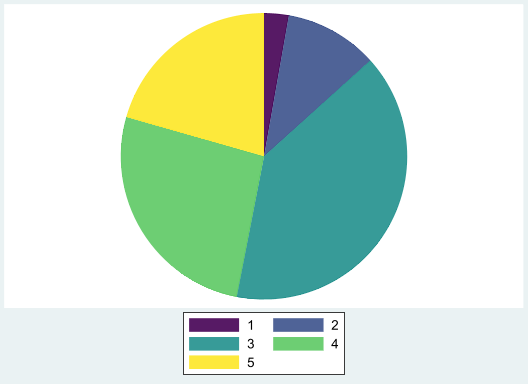
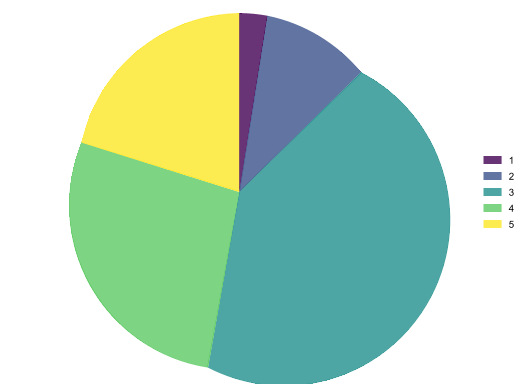
s
s

diff --git a/docs/stataviz/stataviz1.html b/docs/stataviz/stataviz1.html
@@ -109,6 +109,9 @@ function gtag(){dataLayer.push(arguments);}
 gtag('js', new Date());
 gtag('config', 'G-GNMLZDYJ2P', { 'anonymize_ip': true});
 </script>
+<script src="https://cdnjs.cloudflare.com/ajax/libs/require.js/2.3.6/require.min.js" integrity="sha512-c3Nl8+7g4LMSTdrm621y7kf9v3SDPnhxLNhcjFJbKECVnmZHTdo+IRO05sNLTH/D3vA6u1X32ehoLC7WFVdheg==" crossorigin="anonymous"></script>
+<script src="https://cdnjs.cloudflare.com/ajax/libs/jquery/3.5.1/jquery.min.js" integrity="sha512-bLT0Qm9VnAYZDflyKcBaQ2gg0hSYNQrJ8RilYldYQ1FxQYoCLtUjuuRuZo+fjqhx/qtq/1itJ0C2ejDxltZVFg==" crossorigin="anonymous"></script>
+<script type="application/javascript">define('jquery', [],function() {return window.jQuery;})</script>
 
 
 </head>
@@ -339,31 +342,39 @@ gtag('config', 'G-GNMLZDYJ2P', { 'anonymize_ip': true});
 <span id="cb1-5"><a href="#cb1-5" aria-hidden="true" tabindex="-1"></a>* And <span class="kw">of</span> course my <span class="kw">program</span></span>
 <span id="cb1-6"><a href="#cb1-6" aria-hidden="true" tabindex="-1"></a></span>
 <span id="cb1-7"><a href="#cb1-7" aria-hidden="true" tabindex="-1"></a><span class="kw">ssc</span> install color_style </span></code><button title="Copy to Clipboard" class="code-copy-button"><i class="bi"></i></button></pre></div>
+<div id="84a13c0b" class="cell" data-execution_count="1">
+<div class="cell-output cell-output-display">
+<style>div.jp-Notebook .datagrid-container {min-height: 448px; }</style>
+</div>
+<div class="cell-output cell-output-stdout">
+<pre><code>graph size was (5.5in, 4in), is now (default, default).</code></pre>
+</div>
+</div>
 <p>Lets start using default options for something simple. A pie Graph.</p>
-<div class="cell" data-execution_count="1">
+<div id="8f069c83" class="cell" data-execution_count="2">
 <details>
 <summary>Code</summary>
-<div class="sourceCode cell-code" id="cb2"><pre class="sourceCode stata code-with-copy"><code class="sourceCode stata"><span id="cb2-1"><a href="#cb2-1" aria-hidden="true" tabindex="-1"></a><span class="kw">set</span> <span class="dv">scheme</span> white2</span>
-<span id="cb2-2"><a href="#cb2-2" aria-hidden="true" tabindex="-1"></a><span class="kw">sysuse</span> auto, <span class="kw">clear</span></span>
-<span id="cb2-3"><a href="#cb2-3" aria-hidden="true" tabindex="-1"></a><span class="kw">set</span> <span class="dv">scheme</span> s2color</span>
-<span id="cb2-4"><a href="#cb2-4" aria-hidden="true" tabindex="-1"></a><span class="kw">graph</span> pie mpg, <span class="bn">over</span>(rep78)</span></code><button title="Copy to Clipboard" class="code-copy-button"><i class="bi"></i></button></pre></div>
+<div class="sourceCode cell-code" id="cb3"><pre class="sourceCode stata code-with-copy"><code class="sourceCode stata"><span id="cb3-1"><a href="#cb3-1" aria-hidden="true" tabindex="-1"></a><span class="kw">sysuse</span> auto, <span class="kw">clear</span></span>
+<span id="cb3-2"><a href="#cb3-2" aria-hidden="true" tabindex="-1"></a><span class="kw">set</span> <span class="dv">scheme</span> s2color</span>
+<span id="cb3-3"><a href="#cb3-3" aria-hidden="true" tabindex="-1"></a><span class="kw">graph</span> pie mpg, <span class="bn">over</span>(rep78)</span></code><button title="Copy to Clipboard" class="code-copy-button"><i class="bi"></i></button></pre></div>
 </details>
 <div class="cell-output cell-output-stdout">
 <pre><code>(1978 automobile data)</code></pre>
 </div>
 <div class="cell-output cell-output-display">
-<p><img src="stataviz1_files/figure-html/cell-2-output-2.png" class="img-fluid"></p>
+<p><img src="stataviz1_files/figure-html/cell-3-output-2.png" class="img-fluid"></p>
 </div>
 </div>
 <p>This creates a pie graph with average MPG’s by number of repairs in 1978. But what I didn’t like default colors, you can request a change:</p>
-<div class="cell" data-execution_count="2">
+<div id="e67c4f2d" class="cell" data-execution_count="3">
 <details>
 <summary>Code</summary>
-<div class="sourceCode cell-code" id="cb4"><pre class="sourceCode stata code-with-copy"><code class="sourceCode stata"><span id="cb4-1"><a href="#cb4-1" aria-hidden="true" tabindex="-1"></a>color_style viridis, n(5)</span>
-<span id="cb4-2"><a href="#cb4-2" aria-hidden="true" tabindex="-1"></a><span class="kw">graph</span> pie mpg, <span class="bn">over</span>(rep78)</span></code><button title="Copy to Clipboard" class="code-copy-button"><i class="bi"></i></button></pre></div>
+<div class="sourceCode cell-code" id="cb5"><pre class="sourceCode stata code-with-copy"><code class="sourceCode stata"><span id="cb5-1"><a href="#cb5-1" aria-hidden="true" tabindex="-1"></a><span class="kw">set</span> <span class="dv">scheme</span> white2</span>
+<span id="cb5-2"><a href="#cb5-2" aria-hidden="true" tabindex="-1"></a>color_style viridis, n(5)</span>
+<span id="cb5-3"><a href="#cb5-3" aria-hidden="true" tabindex="-1"></a><span class="kw">graph</span> pie mpg, <span class="bn">over</span>(rep78)</span></code><button title="Copy to Clipboard" class="code-copy-button"><i class="bi"></i></button></pre></div>
 </details>
 <div class="cell-output cell-output-display">
-<p><img src="stataviz1_files/figure-html/cell-3-output-1.png" class="img-fluid"></p>
+<p><img src="stataviz1_files/figure-html/cell-4-output-1.png" class="img-fluid"></p>
 </div>
 </div>
 <p>Here, I’ll be using Viridis palette, but requesting only 5 colors. One can request up to 15 different colors.</p>
@@ -373,35 +384,35 @@ gtag('config', 'G-GNMLZDYJ2P', { 'anonymize_ip': true});
 <p>But every body uses Viridis, what other palette can I use?</p>
 <p>You can look into the helpfile of <code>colorpalette</code> for a large set of colors. But, <code>color_style</code> also comes with its own set!. Just type: <code>color_style, list</code>, and a list of additional palettes will come up.</p>
 <p>But you want to see examples! Below, you can see three examples, first using <code>egypt</code> color palette, second using <code>tableau</code>, and third using your own colors</p>
-<div class="cell" data-execution_count="3">
+<div id="44e7f81f" class="cell" data-execution_count="4">
 <details>
 <summary>Code</summary>
-<div class="sourceCode cell-code" id="cb5"><pre class="sourceCode stata code-with-copy"><code class="sourceCode stata"><span id="cb5-1"><a href="#cb5-1" aria-hidden="true" tabindex="-1"></a>color_style egypt,</span>
-<span id="cb5-2"><a href="#cb5-2" aria-hidden="true" tabindex="-1"></a><span class="kw">graph</span> pie mpg, <span class="bn">over</span>(rep78) <span class="bn">name</span>(m1, <span class="kw">replace</span>)</span>
-<span id="cb5-3"><a href="#cb5-3" aria-hidden="true" tabindex="-1"></a></span>
-<span id="cb5-4"><a href="#cb5-4" aria-hidden="true" tabindex="-1"></a>**</span>
-<span id="cb5-5"><a href="#cb5-5" aria-hidden="true" tabindex="-1"></a>color_style tableau</span>
-<span id="cb5-6"><a href="#cb5-6" aria-hidden="true" tabindex="-1"></a><span class="kw">graph</span> pie mpg, <span class="bn">over</span>(rep78) <span class="bn">name</span>(m2, <span class="kw">replace</span>)</span>
-<span id="cb5-7"><a href="#cb5-7" aria-hidden="true" tabindex="-1"></a></span>
-<span id="cb5-8"><a href="#cb5-8" aria-hidden="true" tabindex="-1"></a>** <span class="kw">or</span> your own</span>
-<span id="cb5-9"><a href="#cb5-9" aria-hidden="true" tabindex="-1"></a>color_style #01161E #124559 #598392 #AEC3B0 #EFF6E0</span>
-<span id="cb5-10"><a href="#cb5-10" aria-hidden="true" tabindex="-1"></a><span class="kw">graph</span> pie mpg, <span class="bn">over</span>(rep78) <span class="bn">name</span>(m3, <span class="kw">replace</span>)</span></code><button title="Copy to Clipboard" class="code-copy-button"><i class="bi"></i></button></pre></div>
+<div class="sourceCode cell-code" id="cb6"><pre class="sourceCode stata code-with-copy"><code class="sourceCode stata"><span id="cb6-1"><a href="#cb6-1" aria-hidden="true" tabindex="-1"></a>color_style egypt,</span>
+<span id="cb6-2"><a href="#cb6-2" aria-hidden="true" tabindex="-1"></a><span class="kw">graph</span> pie mpg, <span class="bn">over</span>(rep78) <span class="bn">name</span>(m1, <span class="kw">replace</span>)</span>
+<span id="cb6-3"><a href="#cb6-3" aria-hidden="true" tabindex="-1"></a></span>
+<span id="cb6-4"><a href="#cb6-4" aria-hidden="true" tabindex="-1"></a>**</span>
+<span id="cb6-5"><a href="#cb6-5" aria-hidden="true" tabindex="-1"></a>color_style tableau</span>
+<span id="cb6-6"><a href="#cb6-6" aria-hidden="true" tabindex="-1"></a><span class="kw">graph</span> pie mpg, <span class="bn">over</span>(rep78) <span class="bn">name</span>(m2, <span class="kw">replace</span>)</span>
+<span id="cb6-7"><a href="#cb6-7" aria-hidden="true" tabindex="-1"></a></span>
+<span id="cb6-8"><a href="#cb6-8" aria-hidden="true" tabindex="-1"></a>** <span class="kw">or</span> your own</span>
+<span id="cb6-9"><a href="#cb6-9" aria-hidden="true" tabindex="-1"></a>color_style #01161E #124559 #598392 #AEC3B0 #EFF6E0</span>
+<span id="cb6-10"><a href="#cb6-10" aria-hidden="true" tabindex="-1"></a><span class="kw">graph</span> pie mpg, <span class="bn">over</span>(rep78) <span class="bn">name</span>(m3, <span class="kw">replace</span>)</span></code><button title="Copy to Clipboard" class="code-copy-button"><i class="bi"></i></button></pre></div>
 </details>
 <div class="cell-output cell-output-display">
-<p><img src="stataviz1_files/figure-html/cell-4-output-1.png" class="img-fluid"></p>
+<p><img src="stataviz1_files/figure-html/cell-5-output-1.png" class="img-fluid"></p>
 </div>
 <div class="cell-output cell-output-display">
-<p><img src="stataviz1_files/figure-html/cell-4-output-2.png" class="img-fluid"></p>
+<p><img src="stataviz1_files/figure-html/cell-5-output-2.png" class="img-fluid"></p>
 </div>
 <div class="cell-output cell-output-display">
-<p><img src="stataviz1_files/figure-html/cell-4-output-3.png" class="img-fluid"></p>
+<p><img src="stataviz1_files/figure-html/cell-5-output-3.png" class="img-fluid"></p>
 </div>
 </div>
 </section>
 <section id="how-does-it-work" class="level2">
 <h2 class="anchored" data-anchor-id="how-does-it-work">How does it work?</h2>
 <p>Now that you know the magic, it is fair to know the trick.</p>
-<p>This command <code>color_style</code> works as a wrapper behind <code>colorpalette'. It basically passes the information to this program to translate and create colors from either palettes, or directly provided colors, so it translates into RGB color code that</code>Stata` understands.</p>
+<p>This command <code>color_style</code> works as a wrapper behind <code>colorpalette</code>. It basically passes the information to this program to translate and create colors from either palettes, or directly provided colors, so it translates into RGB color code that <code>Stata</code> understands.</p>
 <p>After that, <code>grstyle</code> uses this information to change the colors of all graphic related styles (p1-p15), which is why there is a limitation of how many colors one can define using this method.</p>
 <p>In any case, once you decide you like certain scheme, this small program should help to make it easy change colors, based on your needs.</p>
 
@@ -792,116 +803,123 @@ window.document.addEventListener("DOMContentLoaded", function (event) {
       </a>
   </div>
 </nav><div class="modal fade" id="quarto-embedded-source-code-modal" tabindex="-1" aria-labelledby="quarto-embedded-source-code-modal-label" aria-hidden="true"><div class="modal-dialog modal-dialog-scrollable"><div class="modal-content"><div class="modal-header"><h5 class="modal-title" id="quarto-embedded-source-code-modal-label">Source Code</h5><button class="btn-close" data-bs-dismiss="modal"></button></div><div class="modal-body"><div class="">
-<div class="sourceCode" id="cb6" data-shortcodes="false"><pre class="sourceCode markdown code-with-copy"><code class="sourceCode markdown"><span id="cb6-1"><a href="#cb6-1" aria-hidden="true" tabindex="-1"></a><span class="co">---</span></span>
-<span id="cb6-2"><a href="#cb6-2" aria-hidden="true" tabindex="-1"></a><span class="an">title:</span><span class="co"> "How to add Colors to your Life: `color_style`"</span></span>
-<span id="cb6-3"><a href="#cb6-3" aria-hidden="true" tabindex="-1"></a><span class="an">subtitle:</span><span class="co"> "The `ado` way"</span></span>
-<span id="cb6-4"><a href="#cb6-4" aria-hidden="true" tabindex="-1"></a><span class="an">format:</span><span class="co"> html</span></span>
-<span id="cb6-5"><a href="#cb6-5" aria-hidden="true" tabindex="-1"></a><span class="co">---</span></span>
-<span id="cb6-6"><a href="#cb6-6" aria-hidden="true" tabindex="-1"></a></span>
-<span id="cb6-7"><a href="#cb6-7" aria-hidden="true" tabindex="-1"></a><span class="al">![This is the way](https://i.pinimg.com/originals/98/c6/99/98c6997145f363265959daf84b656057.jpg)</span>{width=80%}</span>
-<span id="cb6-8"><a href="#cb6-8" aria-hidden="true" tabindex="-1"></a></span>
-<span id="cb6-9"><a href="#cb6-9" aria-hidden="true" tabindex="-1"></a>I should start by saying that what I will be presenting here is ***not*** the only way. There are other ways to create and modify your schemes however you would like to do. Most people provide you with the full set of schemes for that purpose. </span>
-<span id="cb6-10"><a href="#cb6-10" aria-hidden="true" tabindex="-1"></a></span>
-<span id="cb6-11"><a href="#cb6-11" aria-hidden="true" tabindex="-1"></a>That being said, the command I'll be presenting depends on a few tools built by Ben Jann: <span class="in">`colorpalette`</span>, <span class="in">`colorspace`</span>, as well as <span class="in">`grstyle`</span>.</span>
-<span id="cb6-12"><a href="#cb6-12" aria-hidden="true" tabindex="-1"></a></span>
-<span id="cb6-13"><a href="#cb6-13" aria-hidden="true" tabindex="-1"></a>It also has only 1 purpose. Change the color settings from your current "scheme" to any other palette either available in <span class="in">`colorpalette`</span>, or provided by the program.</span>
-<span id="cb6-14"><a href="#cb6-14" aria-hidden="true" tabindex="-1"></a></span>
-<span id="cb6-15"><a href="#cb6-15" aria-hidden="true" tabindex="-1"></a>So let me start</span>
-<span id="cb6-16"><a href="#cb6-16" aria-hidden="true" tabindex="-1"></a> </span>
-<span id="cb6-17"><a href="#cb6-17" aria-hidden="true" tabindex="-1"></a><span class="fu"># Why do we care about colors?</span></span>
-<span id="cb6-18"><a href="#cb6-18" aria-hidden="true" tabindex="-1"></a></span>
-<span id="cb6-19"><a href="#cb6-19" aria-hidden="true" tabindex="-1"></a>Why not? </span>
-<span id="cb6-20"><a href="#cb6-20" aria-hidden="true" tabindex="-1"></a></span>
-<span id="cb6-21"><a href="#cb6-21" aria-hidden="true" tabindex="-1"></a>Even though I suspect you are an economist, who does research, you may also be curious or may have some inclination for data visualization, which means you like to put some colors in your graphs.</span>
-<span id="cb6-22"><a href="#cb6-22" aria-hidden="true" tabindex="-1"></a></span>
-<span id="cb6-23"><a href="#cb6-23" aria-hidden="true" tabindex="-1"></a>**`Stata`**, as many other software, can handle colors pretty well, but its not very natural at it. Why? because it is an statistical/econometric software, and does not specialize much on design and colors. </span>
-<span id="cb6-24"><a href="#cb6-24" aria-hidden="true" tabindex="-1"></a></span>
-<span id="cb6-25"><a href="#cb6-25" aria-hidden="true" tabindex="-1"></a>In fact, a running comment, or complain, is why is it that they have such an *ugly* choice of colors for the default setting? And why are the graphics capabilities so limited/complex!</span>
-<span id="cb6-26"><a href="#cb6-26" aria-hidden="true" tabindex="-1"></a></span>
-<span id="cb6-27"><a href="#cb6-27" aria-hidden="true" tabindex="-1"></a>Luckily, many users have created tools to add color to your figures much easier. And that is the purpose of this new command. Add colors to your figures!</span>
-<span id="cb6-28"><a href="#cb6-28" aria-hidden="true" tabindex="-1"></a></span>
-<span id="cb6-29"><a href="#cb6-29" aria-hidden="true" tabindex="-1"></a><span class="fu">## So how does it work?</span></span>
-<span id="cb6-30"><a href="#cb6-30" aria-hidden="true" tabindex="-1"></a></span>
-<span id="cb6-31"><a href="#cb6-31" aria-hidden="true" tabindex="-1"></a>As I mentioned earlier, there are two very useful programs that mine builds on. These are <span class="in">`colorpalette`</span> and <span class="in">`grstyle`</span>, both by Ben Jann.</span>
-<span id="cb6-32"><a href="#cb6-32" aria-hidden="true" tabindex="-1"></a></span>
-<span id="cb6-33"><a href="#cb6-33" aria-hidden="true" tabindex="-1"></a><span class="ss">- </span><span class="in">`colorpalette`</span> helps create colors, call on palettes, modify properties, and translate them in a way that <span class="in">`Stata`</span> will understand. </span>
-<span id="cb6-34"><a href="#cb6-34" aria-hidden="true" tabindex="-1"></a></span>
-<span id="cb6-35"><a href="#cb6-35" aria-hidden="true" tabindex="-1"></a><span class="ss">- </span><span class="in">`grstyle`</span> helps modifying the current scheme, so all graphs done afterward will use the modify schemes.</span>
-<span id="cb6-36"><a href="#cb6-36" aria-hidden="true" tabindex="-1"></a></span>
-<span id="cb6-37"><a href="#cb6-37" aria-hidden="true" tabindex="-1"></a><span class="fu">## Where does mine fit? </span></span>
-<span id="cb6-38"><a href="#cb6-38" aria-hidden="true" tabindex="-1"></a></span>
-<span id="cb6-39"><a href="#cb6-39" aria-hidden="true" tabindex="-1"></a>My program <span class="in">`color_style`</span> is in fact a wrapper around <span class="in">`colorpalette`</span> and <span class="in">`grstyle`</span>. You can use it to call on a particular color palette, and will automatically apply it into your scheme. </span>
-<span id="cb6-40"><a href="#cb6-40" aria-hidden="true" tabindex="-1"></a></span>
-<span id="cb6-41"><a href="#cb6-41" aria-hidden="true" tabindex="-1"></a>It also brings some other colorpalettes that can be stored in memory, and applied to your graphs, but enough talk, lets see how it works!</span>
-<span id="cb6-42"><a href="#cb6-42" aria-hidden="true" tabindex="-1"></a></span>
-<span id="cb6-43"><a href="#cb6-43" aria-hidden="true" tabindex="-1"></a>First, setup. make sure you have the following programs installed in your computer</span>
-<span id="cb6-44"><a href="#cb6-44" aria-hidden="true" tabindex="-1"></a></span>
-<span id="cb6-45"><a href="#cb6-45" aria-hidden="true" tabindex="-1"></a><span class="in">```stata</span></span>
-<span id="cb6-46"><a href="#cb6-46" aria-hidden="true" tabindex="-1"></a><span class="in">ssc install palettes</span></span>
-<span id="cb6-47"><a href="#cb6-47" aria-hidden="true" tabindex="-1"></a><span class="in">ssc install colrspace  </span></span>
-<span id="cb6-48"><a href="#cb6-48" aria-hidden="true" tabindex="-1"></a><span class="in">ssc install grstyle</span></span>
-<span id="cb6-49"><a href="#cb6-49" aria-hidden="true" tabindex="-1"></a></span>
-<span id="cb6-50"><a href="#cb6-50" aria-hidden="true" tabindex="-1"></a><span class="in">* And of course my program</span></span>
-<span id="cb6-51"><a href="#cb6-51" aria-hidden="true" tabindex="-1"></a></span>
-<span id="cb6-52"><a href="#cb6-52" aria-hidden="true" tabindex="-1"></a><span class="in">ssc install color_style </span></span>
-<span id="cb6-53"><a href="#cb6-53" aria-hidden="true" tabindex="-1"></a><span class="in">```</span></span>
-<span id="cb6-54"><a href="#cb6-54" aria-hidden="true" tabindex="-1"></a></span>
-<span id="cb6-55"><a href="#cb6-55" aria-hidden="true" tabindex="-1"></a>Lets start using default options for something simple. A pie Graph. </span>
-<span id="cb6-56"><a href="#cb6-56" aria-hidden="true" tabindex="-1"></a></span>
-<span id="cb6-59"><a href="#cb6-59" aria-hidden="true" tabindex="-1"></a><span class="in">```{stata}</span></span>
-<span id="cb6-60"><a href="#cb6-60" aria-hidden="true" tabindex="-1"></a><span class="in">set scheme white2</span></span>
-<span id="cb6-61"><a href="#cb6-61" aria-hidden="true" tabindex="-1"></a><span class="in">sysuse auto, clear</span></span>
-<span id="cb6-62"><a href="#cb6-62" aria-hidden="true" tabindex="-1"></a><span class="in">set scheme s2color</span></span>
-<span id="cb6-63"><a href="#cb6-63" aria-hidden="true" tabindex="-1"></a><span class="in">graph pie mpg, over(rep78)</span></span>
-<span id="cb6-64"><a href="#cb6-64" aria-hidden="true" tabindex="-1"></a><span class="in">```</span></span>
-<span id="cb6-65"><a href="#cb6-65" aria-hidden="true" tabindex="-1"></a></span>
-<span id="cb6-66"><a href="#cb6-66" aria-hidden="true" tabindex="-1"></a>This creates a pie graph with average MPG's by number of repairs in 1978. But what I didn't like</span>
-<span id="cb6-67"><a href="#cb6-67" aria-hidden="true" tabindex="-1"></a>default colors, you can request a change:</span>
-<span id="cb6-68"><a href="#cb6-68" aria-hidden="true" tabindex="-1"></a></span>
-<span id="cb6-71"><a href="#cb6-71" aria-hidden="true" tabindex="-1"></a><span class="in">```{stata}</span></span>
-<span id="cb6-72"><a href="#cb6-72" aria-hidden="true" tabindex="-1"></a><span class="in">color_style viridis, n(5)</span></span>
-<span id="cb6-73"><a href="#cb6-73" aria-hidden="true" tabindex="-1"></a><span class="in">graph pie mpg, over(rep78)</span></span>
-<span id="cb6-74"><a href="#cb6-74" aria-hidden="true" tabindex="-1"></a><span class="in">```</span></span>
-<span id="cb6-75"><a href="#cb6-75" aria-hidden="true" tabindex="-1"></a></span>
-<span id="cb6-76"><a href="#cb6-76" aria-hidden="true" tabindex="-1"></a>Here, I'll be using Viridis palette, but requesting only 5 colors. One can request up to 15 different colors.</span>
-<span id="cb6-77"><a href="#cb6-77" aria-hidden="true" tabindex="-1"></a>  </span>
-<span id="cb6-78"><a href="#cb6-78" aria-hidden="true" tabindex="-1"></a><span class="fu">## I want more!</span></span>
-<span id="cb6-79"><a href="#cb6-79" aria-hidden="true" tabindex="-1"></a></span>
-<span id="cb6-80"><a href="#cb6-80" aria-hidden="true" tabindex="-1"></a>But every body uses Viridis, what other palette can I use?</span>
-<span id="cb6-81"><a href="#cb6-81" aria-hidden="true" tabindex="-1"></a>  </span>
-<span id="cb6-82"><a href="#cb6-82" aria-hidden="true" tabindex="-1"></a>You can look into the helpfile of <span class="in">`colorpalette`</span> for a large set of colors. But, <span class="in">`color_style`</span> also comes with its own set!.</span>
-<span id="cb6-83"><a href="#cb6-83" aria-hidden="true" tabindex="-1"></a>Just type: <span class="in">`color_style, list`</span>, and a list of additional palettes will come up.</span>
-<span id="cb6-84"><a href="#cb6-84" aria-hidden="true" tabindex="-1"></a></span>
-<span id="cb6-85"><a href="#cb6-85" aria-hidden="true" tabindex="-1"></a>But you want to see examples! Below, you can see three examples, first using <span class="in">`egypt`</span> color palette, second using <span class="in">`tableau`</span>, and third using </span>
-<span id="cb6-86"><a href="#cb6-86" aria-hidden="true" tabindex="-1"></a>your own colors</span>
-<span id="cb6-87"><a href="#cb6-87" aria-hidden="true" tabindex="-1"></a>  </span>
-<span id="cb6-90"><a href="#cb6-90" aria-hidden="true" tabindex="-1"></a><span class="in">```{stata}</span></span>
-<span id="cb6-91"><a href="#cb6-91" aria-hidden="true" tabindex="-1"></a><span class="in">color_style egypt,</span></span>
-<span id="cb6-92"><a href="#cb6-92" aria-hidden="true" tabindex="-1"></a><span class="in">graph pie mpg, over(rep78) name(m1, replace)</span></span>
-<span id="cb6-93"><a href="#cb6-93" aria-hidden="true" tabindex="-1"></a></span>
-<span id="cb6-94"><a href="#cb6-94" aria-hidden="true" tabindex="-1"></a><span class="in">**</span></span>
-<span id="cb6-95"><a href="#cb6-95" aria-hidden="true" tabindex="-1"></a><span class="in">color_style tableau</span></span>
-<span id="cb6-96"><a href="#cb6-96" aria-hidden="true" tabindex="-1"></a><span class="in">graph pie mpg, over(rep78) name(m2, replace)</span></span>
-<span id="cb6-97"><a href="#cb6-97" aria-hidden="true" tabindex="-1"></a></span>
-<span id="cb6-98"><a href="#cb6-98" aria-hidden="true" tabindex="-1"></a><span class="in">** or your own</span></span>
-<span id="cb6-99"><a href="#cb6-99" aria-hidden="true" tabindex="-1"></a><span class="in">color_style #01161E #124559 #598392 #AEC3B0 #EFF6E0</span></span>
-<span id="cb6-100"><a href="#cb6-100" aria-hidden="true" tabindex="-1"></a><span class="in">graph pie mpg, over(rep78) name(m3, replace)</span></span>
-<span id="cb6-101"><a href="#cb6-101" aria-hidden="true" tabindex="-1"></a><span class="in">```</span></span>
-<span id="cb6-102"><a href="#cb6-102" aria-hidden="true" tabindex="-1"></a></span>
-<span id="cb6-103"><a href="#cb6-103" aria-hidden="true" tabindex="-1"></a><span class="fu">## How does it work?</span></span>
-<span id="cb6-104"><a href="#cb6-104" aria-hidden="true" tabindex="-1"></a></span>
-<span id="cb6-105"><a href="#cb6-105" aria-hidden="true" tabindex="-1"></a>Now that you know the magic, it is fair to know the trick.</span>
-<span id="cb6-106"><a href="#cb6-106" aria-hidden="true" tabindex="-1"></a></span>
-<span id="cb6-107"><a href="#cb6-107" aria-hidden="true" tabindex="-1"></a>This command <span class="in">`color_style`</span> works as a wrapper behind `colorpalette'. It basically passes the information to this program</span>
-<span id="cb6-108"><a href="#cb6-108" aria-hidden="true" tabindex="-1"></a>to translate and create colors from either palettes, or directly provided colors, so it translates into RGB color code that <span class="in">`Stata`</span> </span>
-<span id="cb6-109"><a href="#cb6-109" aria-hidden="true" tabindex="-1"></a>understands. </span>
-<span id="cb6-110"><a href="#cb6-110" aria-hidden="true" tabindex="-1"></a></span>
-<span id="cb6-111"><a href="#cb6-111" aria-hidden="true" tabindex="-1"></a>After that, <span class="in">`grstyle`</span> uses this information to change the colors of all graphic related styles (p1-p15), which is why there is a limitation </span>
-<span id="cb6-112"><a href="#cb6-112" aria-hidden="true" tabindex="-1"></a>of how many colors one can define using this method. </span>
-<span id="cb6-113"><a href="#cb6-113" aria-hidden="true" tabindex="-1"></a></span>
-<span id="cb6-114"><a href="#cb6-114" aria-hidden="true" tabindex="-1"></a>In any case, once you decide you like certain scheme, this small program should help to make it easy change colors, based on your needs.</span>
-<span id="cb6-115"><a href="#cb6-115" aria-hidden="true" tabindex="-1"></a></span>
-<span id="cb6-116"><a href="#cb6-116" aria-hidden="true" tabindex="-1"></a></span>
+<div class="sourceCode" id="cb7" data-shortcodes="false"><pre class="sourceCode markdown code-with-copy"><code class="sourceCode markdown"><span id="cb7-1"><a href="#cb7-1" aria-hidden="true" tabindex="-1"></a><span class="co">---</span></span>
+<span id="cb7-2"><a href="#cb7-2" aria-hidden="true" tabindex="-1"></a><span class="an">title:</span><span class="co"> "How to add Colors to your Life: `color_style`"</span></span>
+<span id="cb7-3"><a href="#cb7-3" aria-hidden="true" tabindex="-1"></a><span class="an">subtitle:</span><span class="co"> "The `ado` way"</span></span>
+<span id="cb7-4"><a href="#cb7-4" aria-hidden="true" tabindex="-1"></a><span class="an">format:</span><span class="co"> html</span></span>
+<span id="cb7-5"><a href="#cb7-5" aria-hidden="true" tabindex="-1"></a><span class="co">---</span></span>
+<span id="cb7-6"><a href="#cb7-6" aria-hidden="true" tabindex="-1"></a></span>
+<span id="cb7-7"><a href="#cb7-7" aria-hidden="true" tabindex="-1"></a><span class="al">![This is the way](https://i.pinimg.com/originals/98/c6/99/98c6997145f363265959daf84b656057.jpg)</span>{width=80%}</span>
+<span id="cb7-8"><a href="#cb7-8" aria-hidden="true" tabindex="-1"></a></span>
+<span id="cb7-9"><a href="#cb7-9" aria-hidden="true" tabindex="-1"></a>I should start by saying that what I will be presenting here is ***not*** the only way. There are other ways to create and modify your schemes however you would like to do. Most people provide you with the full set of schemes for that purpose. </span>
+<span id="cb7-10"><a href="#cb7-10" aria-hidden="true" tabindex="-1"></a></span>
+<span id="cb7-11"><a href="#cb7-11" aria-hidden="true" tabindex="-1"></a>That being said, the command I'll be presenting depends on a few tools built by Ben Jann: <span class="in">`colorpalette`</span>, <span class="in">`colorspace`</span>, as well as <span class="in">`grstyle`</span>.</span>
+<span id="cb7-12"><a href="#cb7-12" aria-hidden="true" tabindex="-1"></a></span>
+<span id="cb7-13"><a href="#cb7-13" aria-hidden="true" tabindex="-1"></a>It also has only 1 purpose. Change the color settings from your current "scheme" to any other palette either available in <span class="in">`colorpalette`</span>, or provided by the program.</span>
+<span id="cb7-14"><a href="#cb7-14" aria-hidden="true" tabindex="-1"></a></span>
+<span id="cb7-15"><a href="#cb7-15" aria-hidden="true" tabindex="-1"></a>So let me start</span>
+<span id="cb7-16"><a href="#cb7-16" aria-hidden="true" tabindex="-1"></a> </span>
+<span id="cb7-17"><a href="#cb7-17" aria-hidden="true" tabindex="-1"></a><span class="fu"># Why do we care about colors?</span></span>
+<span id="cb7-18"><a href="#cb7-18" aria-hidden="true" tabindex="-1"></a></span>
+<span id="cb7-19"><a href="#cb7-19" aria-hidden="true" tabindex="-1"></a>Why not? </span>
+<span id="cb7-20"><a href="#cb7-20" aria-hidden="true" tabindex="-1"></a></span>
+<span id="cb7-21"><a href="#cb7-21" aria-hidden="true" tabindex="-1"></a>Even though I suspect you are an economist, who does research, you may also be curious or may have some inclination for data visualization, which means you like to put some colors in your graphs.</span>
+<span id="cb7-22"><a href="#cb7-22" aria-hidden="true" tabindex="-1"></a></span>
+<span id="cb7-23"><a href="#cb7-23" aria-hidden="true" tabindex="-1"></a>**`Stata`**, as many other software, can handle colors pretty well, but its not very natural at it. Why? because it is an statistical/econometric software, and does not specialize much on design and colors. </span>
+<span id="cb7-24"><a href="#cb7-24" aria-hidden="true" tabindex="-1"></a></span>
+<span id="cb7-25"><a href="#cb7-25" aria-hidden="true" tabindex="-1"></a>In fact, a running comment, or complain, is why is it that they have such an *ugly* choice of colors for the default setting? And why are the graphics capabilities so limited/complex!</span>
+<span id="cb7-26"><a href="#cb7-26" aria-hidden="true" tabindex="-1"></a></span>
+<span id="cb7-27"><a href="#cb7-27" aria-hidden="true" tabindex="-1"></a>Luckily, many users have created tools to add color to your figures much easier. And that is the purpose of this new command. Add colors to your figures!</span>
+<span id="cb7-28"><a href="#cb7-28" aria-hidden="true" tabindex="-1"></a></span>
+<span id="cb7-29"><a href="#cb7-29" aria-hidden="true" tabindex="-1"></a><span class="fu">## So how does it work?</span></span>
+<span id="cb7-30"><a href="#cb7-30" aria-hidden="true" tabindex="-1"></a></span>
+<span id="cb7-31"><a href="#cb7-31" aria-hidden="true" tabindex="-1"></a>As I mentioned earlier, there are two very useful programs that mine builds on. These are <span class="in">`colorpalette`</span> and <span class="in">`grstyle`</span>, both by Ben Jann.</span>
+<span id="cb7-32"><a href="#cb7-32" aria-hidden="true" tabindex="-1"></a></span>
+<span id="cb7-33"><a href="#cb7-33" aria-hidden="true" tabindex="-1"></a><span class="ss">- </span><span class="in">`colorpalette`</span> helps create colors, call on palettes, modify properties, and translate them in a way that <span class="in">`Stata`</span> will understand. </span>
+<span id="cb7-34"><a href="#cb7-34" aria-hidden="true" tabindex="-1"></a></span>
+<span id="cb7-35"><a href="#cb7-35" aria-hidden="true" tabindex="-1"></a><span class="ss">- </span><span class="in">`grstyle`</span> helps modifying the current scheme, so all graphs done afterward will use the modify schemes.</span>
+<span id="cb7-36"><a href="#cb7-36" aria-hidden="true" tabindex="-1"></a></span>
+<span id="cb7-37"><a href="#cb7-37" aria-hidden="true" tabindex="-1"></a><span class="fu">## Where does mine fit? </span></span>
+<span id="cb7-38"><a href="#cb7-38" aria-hidden="true" tabindex="-1"></a></span>
+<span id="cb7-39"><a href="#cb7-39" aria-hidden="true" tabindex="-1"></a>My program <span class="in">`color_style`</span> is in fact a wrapper around <span class="in">`colorpalette`</span> and <span class="in">`grstyle`</span>. You can use it to call on a particular color palette, and will automatically apply it into your scheme. </span>
+<span id="cb7-40"><a href="#cb7-40" aria-hidden="true" tabindex="-1"></a></span>
+<span id="cb7-41"><a href="#cb7-41" aria-hidden="true" tabindex="-1"></a>It also brings some other colorpalettes that can be stored in memory, and applied to your graphs, but enough talk, lets see how it works!</span>
+<span id="cb7-42"><a href="#cb7-42" aria-hidden="true" tabindex="-1"></a></span>
+<span id="cb7-43"><a href="#cb7-43" aria-hidden="true" tabindex="-1"></a>First, setup. make sure you have the following programs installed in your computer</span>
+<span id="cb7-44"><a href="#cb7-44" aria-hidden="true" tabindex="-1"></a></span>
+<span id="cb7-45"><a href="#cb7-45" aria-hidden="true" tabindex="-1"></a><span class="in">```stata</span></span>
+<span id="cb7-46"><a href="#cb7-46" aria-hidden="true" tabindex="-1"></a><span class="in">ssc install palettes</span></span>
+<span id="cb7-47"><a href="#cb7-47" aria-hidden="true" tabindex="-1"></a><span class="in">ssc install colrspace  </span></span>
+<span id="cb7-48"><a href="#cb7-48" aria-hidden="true" tabindex="-1"></a><span class="in">ssc install grstyle</span></span>
+<span id="cb7-49"><a href="#cb7-49" aria-hidden="true" tabindex="-1"></a></span>
+<span id="cb7-50"><a href="#cb7-50" aria-hidden="true" tabindex="-1"></a><span class="in">* And of course my program</span></span>
+<span id="cb7-51"><a href="#cb7-51" aria-hidden="true" tabindex="-1"></a></span>
+<span id="cb7-52"><a href="#cb7-52" aria-hidden="true" tabindex="-1"></a><span class="in">ssc install color_style </span></span>
+<span id="cb7-53"><a href="#cb7-53" aria-hidden="true" tabindex="-1"></a><span class="in">```</span></span>
+<span id="cb7-54"><a href="#cb7-54" aria-hidden="true" tabindex="-1"></a></span>
+<span id="cb7-57"><a href="#cb7-57" aria-hidden="true" tabindex="-1"></a><span class="in">```{stata}</span></span>
+<span id="cb7-58"><a href="#cb7-58" aria-hidden="true" tabindex="-1"></a><span class="in">*| echo: false</span></span>
+<span id="cb7-59"><a href="#cb7-59" aria-hidden="true" tabindex="-1"></a><span class="in">%%set </span></span>
+<span id="cb7-60"><a href="#cb7-60" aria-hidden="true" tabindex="-1"></a><span class="in">graph_width = default</span></span>
+<span id="cb7-61"><a href="#cb7-61" aria-hidden="true" tabindex="-1"></a><span class="in">graph_height = default</span></span>
+<span id="cb7-62"><a href="#cb7-62" aria-hidden="true" tabindex="-1"></a><span class="in">```</span></span>
+<span id="cb7-63"><a href="#cb7-63" aria-hidden="true" tabindex="-1"></a></span>
+<span id="cb7-64"><a href="#cb7-64" aria-hidden="true" tabindex="-1"></a>Lets start using default options for something simple. A pie Graph. </span>
+<span id="cb7-65"><a href="#cb7-65" aria-hidden="true" tabindex="-1"></a></span>
+<span id="cb7-68"><a href="#cb7-68" aria-hidden="true" tabindex="-1"></a><span class="in">```{stata}</span></span>
+<span id="cb7-69"><a href="#cb7-69" aria-hidden="true" tabindex="-1"></a><span class="in">sysuse auto, clear</span></span>
+<span id="cb7-70"><a href="#cb7-70" aria-hidden="true" tabindex="-1"></a><span class="in">set scheme s2color</span></span>
+<span id="cb7-71"><a href="#cb7-71" aria-hidden="true" tabindex="-1"></a><span class="in">graph pie mpg, over(rep78)</span></span>
+<span id="cb7-72"><a href="#cb7-72" aria-hidden="true" tabindex="-1"></a><span class="in">```</span></span>
+<span id="cb7-73"><a href="#cb7-73" aria-hidden="true" tabindex="-1"></a></span>
+<span id="cb7-74"><a href="#cb7-74" aria-hidden="true" tabindex="-1"></a>This creates a pie graph with average MPG's by number of repairs in 1978. But what I didn't like</span>
+<span id="cb7-75"><a href="#cb7-75" aria-hidden="true" tabindex="-1"></a>default colors, you can request a change:</span>
+<span id="cb7-76"><a href="#cb7-76" aria-hidden="true" tabindex="-1"></a></span>
+<span id="cb7-79"><a href="#cb7-79" aria-hidden="true" tabindex="-1"></a><span class="in">```{stata}</span></span>
+<span id="cb7-80"><a href="#cb7-80" aria-hidden="true" tabindex="-1"></a><span class="in">set scheme white2</span></span>
+<span id="cb7-81"><a href="#cb7-81" aria-hidden="true" tabindex="-1"></a><span class="in">color_style viridis, n(5)</span></span>
+<span id="cb7-82"><a href="#cb7-82" aria-hidden="true" tabindex="-1"></a><span class="in">graph pie mpg, over(rep78)</span></span>
+<span id="cb7-83"><a href="#cb7-83" aria-hidden="true" tabindex="-1"></a><span class="in">```</span></span>
+<span id="cb7-84"><a href="#cb7-84" aria-hidden="true" tabindex="-1"></a></span>
+<span id="cb7-85"><a href="#cb7-85" aria-hidden="true" tabindex="-1"></a>Here, I'll be using Viridis palette, but requesting only 5 colors. One can request up to 15 different colors.</span>
+<span id="cb7-86"><a href="#cb7-86" aria-hidden="true" tabindex="-1"></a>  </span>
+<span id="cb7-87"><a href="#cb7-87" aria-hidden="true" tabindex="-1"></a><span class="fu">## I want more!</span></span>
+<span id="cb7-88"><a href="#cb7-88" aria-hidden="true" tabindex="-1"></a></span>
+<span id="cb7-89"><a href="#cb7-89" aria-hidden="true" tabindex="-1"></a>But every body uses Viridis, what other palette can I use?</span>
+<span id="cb7-90"><a href="#cb7-90" aria-hidden="true" tabindex="-1"></a>  </span>
+<span id="cb7-91"><a href="#cb7-91" aria-hidden="true" tabindex="-1"></a>You can look into the helpfile of <span class="in">`colorpalette`</span> for a large set of colors. But, <span class="in">`color_style`</span> also comes with its own set!.</span>
+<span id="cb7-92"><a href="#cb7-92" aria-hidden="true" tabindex="-1"></a>Just type: <span class="in">`color_style, list`</span>, and a list of additional palettes will come up.</span>
+<span id="cb7-93"><a href="#cb7-93" aria-hidden="true" tabindex="-1"></a></span>
+<span id="cb7-94"><a href="#cb7-94" aria-hidden="true" tabindex="-1"></a>But you want to see examples! Below, you can see three examples, first using <span class="in">`egypt`</span> color palette, second using <span class="in">`tableau`</span>, and third using </span>
+<span id="cb7-95"><a href="#cb7-95" aria-hidden="true" tabindex="-1"></a>your own colors</span>
+<span id="cb7-96"><a href="#cb7-96" aria-hidden="true" tabindex="-1"></a>  </span>
+<span id="cb7-99"><a href="#cb7-99" aria-hidden="true" tabindex="-1"></a><span class="in">```{stata}</span></span>
+<span id="cb7-100"><a href="#cb7-100" aria-hidden="true" tabindex="-1"></a><span class="in">color_style egypt,</span></span>
+<span id="cb7-101"><a href="#cb7-101" aria-hidden="true" tabindex="-1"></a><span class="in">graph pie mpg, over(rep78) name(m1, replace)</span></span>
+<span id="cb7-102"><a href="#cb7-102" aria-hidden="true" tabindex="-1"></a></span>
+<span id="cb7-103"><a href="#cb7-103" aria-hidden="true" tabindex="-1"></a><span class="in">**</span></span>
+<span id="cb7-104"><a href="#cb7-104" aria-hidden="true" tabindex="-1"></a><span class="in">color_style tableau</span></span>
+<span id="cb7-105"><a href="#cb7-105" aria-hidden="true" tabindex="-1"></a><span class="in">graph pie mpg, over(rep78) name(m2, replace)</span></span>
+<span id="cb7-106"><a href="#cb7-106" aria-hidden="true" tabindex="-1"></a></span>
+<span id="cb7-107"><a href="#cb7-107" aria-hidden="true" tabindex="-1"></a><span class="in">** or your own</span></span>
+<span id="cb7-108"><a href="#cb7-108" aria-hidden="true" tabindex="-1"></a><span class="in">color_style #01161E #124559 #598392 #AEC3B0 #EFF6E0</span></span>
+<span id="cb7-109"><a href="#cb7-109" aria-hidden="true" tabindex="-1"></a><span class="in">graph pie mpg, over(rep78) name(m3, replace)</span></span>
+<span id="cb7-110"><a href="#cb7-110" aria-hidden="true" tabindex="-1"></a><span class="in">```</span></span>
+<span id="cb7-111"><a href="#cb7-111" aria-hidden="true" tabindex="-1"></a></span>
+<span id="cb7-112"><a href="#cb7-112" aria-hidden="true" tabindex="-1"></a><span class="fu">## How does it work?</span></span>
+<span id="cb7-113"><a href="#cb7-113" aria-hidden="true" tabindex="-1"></a></span>
+<span id="cb7-114"><a href="#cb7-114" aria-hidden="true" tabindex="-1"></a>Now that you know the magic, it is fair to know the trick.</span>
+<span id="cb7-115"><a href="#cb7-115" aria-hidden="true" tabindex="-1"></a></span>
+<span id="cb7-116"><a href="#cb7-116" aria-hidden="true" tabindex="-1"></a>This command <span class="in">`color_style`</span> works as a wrapper behind <span class="in">`colorpalette`</span>. It basically passes the information to this program</span>
+<span id="cb7-117"><a href="#cb7-117" aria-hidden="true" tabindex="-1"></a>to translate and create colors from either palettes, or directly provided colors, so it translates into RGB color code that <span class="in">`Stata`</span> </span>
+<span id="cb7-118"><a href="#cb7-118" aria-hidden="true" tabindex="-1"></a>understands. </span>
+<span id="cb7-119"><a href="#cb7-119" aria-hidden="true" tabindex="-1"></a></span>
+<span id="cb7-120"><a href="#cb7-120" aria-hidden="true" tabindex="-1"></a>After that, <span class="in">`grstyle`</span> uses this information to change the colors of all graphic related styles (p1-p15), which is why there is a limitation </span>
+<span id="cb7-121"><a href="#cb7-121" aria-hidden="true" tabindex="-1"></a>of how many colors one can define using this method. </span>
+<span id="cb7-122"><a href="#cb7-122" aria-hidden="true" tabindex="-1"></a></span>
+<span id="cb7-123"><a href="#cb7-123" aria-hidden="true" tabindex="-1"></a>In any case, once you decide you like certain scheme, this small program should help to make it easy change colors, based on your needs.</span>
+<span id="cb7-124"><a href="#cb7-124" aria-hidden="true" tabindex="-1"></a></span>
+<span id="cb7-125"><a href="#cb7-125" aria-hidden="true" tabindex="-1"></a></span>
 </code><button title="Copy to Clipboard" class="code-copy-button"><i class="bi"></i></button></pre></div>
 </div></div></div></div></div>
 </div> <!-- /content -->
